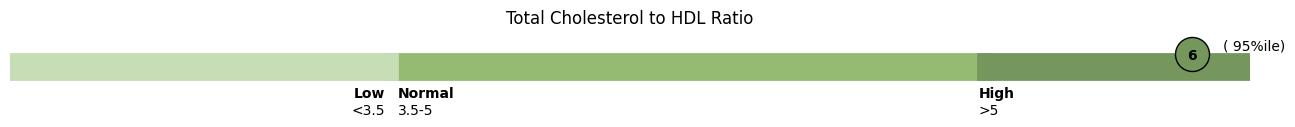
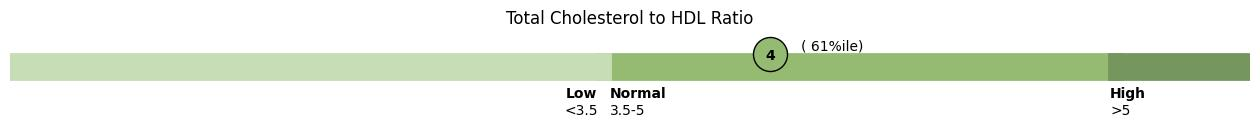
New AHA_Ranges

diff --git a/Home.py b/Home.py
@@ -21,7 +21,7 @@ DATA_DIR = DIR + '/data/'
 OUTPUT_DIR = DIR + '/output/'
 SAHC_DATA_DIR = DIR + '/sahc_data/'
 
-image_path = os.path.join(LOGO_DIR, 'sahc colors.svg')
+image_path = os.path.join(LOGO_DIR, 'CORE caps.svg')
 
 def create_download_link(val, filename):
     b64 = base64.b64encode(val)  # val looks like b'...'
@@ -86,7 +86,7 @@ st.markdown(
         z-index: 999;
     }
     .fixed-header {
-        border-bottom: 1px solid grey;
+        border-bottom: 1px solid lightgrey;
     }
 </style>
     """,
@@ -107,11 +107,13 @@ GLU_FILE = os.path.join(DATA_DIR, 'P_GLU.XPT')
 GHB_FILE = os.path.join(DATA_DIR, 'P_GHB.XPT')
 BPX_FILE = os.path.join(DATA_DIR, 'P_BPXO.XPT')
 CBC_FILE = os.path.join(DATA_DIR, 'P_CBC.XPT')
-SAHC_FILE = os.path.join(SAHC_DATA_DIR, 'tblCleanedConcatNoPID.csv')
+BMX_FILE = os.path.join(DATA_DIR, 'P_BMX.XPT')
+# SAHC_FILE = os.path.join(SAHC_DATA_DIR, 'tblCleanedConcatNoPID.csv')
+SAHC_FILE = os.path.join(SAHC_DATA_DIR, 'merged_data_noPID.csv')
 
 UNITS_MAP = {
-    'LBDHDD': "mg/dL", 'LBDLDL': "mg/dL", 'LBXTC': "mg/dL", 'LBXTR': "mg/dL", 'DIQ280': "%",
-    'LBXGLU': "mg/dL", 'BPXOSY1': "mmHg", 'BPXODI1': "mmHg", 'LBXHGB': "g/dL", 'TotHDLRat': ""
+    'LBDHDD': "mg/dL", 'LBDLDL': "mg/dL", 'LBXTC': "mg/dL", 'LBXTR': "mg/dL", 'LBXGH': "%",
+    'LBXGLU': "mg/dL", 'BPXOSY1': "mmHg", 'BPXODI1': "mmHg", 'LBXHGB': "g/dL", 'TotHDLRat': "", 'BMXBMI': "kg/m\u00b2"
 }
 
 
@@ -119,21 +121,34 @@ NAME_MAP = {
     'LBXTR': 'Triglycerides', 'LBDHDD': 'HDL', 'LBDLDL': 'LDL',
     'LBXTC': 'Total Cholesterol', 'LBXGLU': 'Fasting Glucose',
     'BPXOSY1': 'Systolic Blood Pressure', 'BPXODI1': 'Diastolic Blood Pressure', 
-    'TotHDLRat': 'Total Cholesterol to HDL Ratio', 'LBXHGB': 'Hemoglobin', 'DIQ280': 'A1C'
+    'TotHDLRat': 'Total Cholesterol to HDL Ratio', 'LBXHGB': 'Hemoglobin', 'LBXGH': 'Hemoglobin A1C', 
+    'BMXBMI': 'Body Mass Index'
 }
 
-# Uniform AHA ranges regardless of gender and age
 AHA_RANGES = {
-    'Triglycerides (mg/dL)': (None, 150, None),
-    'HDL (mg/dL)': (40, 60, None),
-    'LDL (mg/dL)': (None, 100, None),
-    'Total Cholesterol (mg/dL)': (140, 160, None),
-    'Fasting Glucose (mg/dL)': (None, 100, None),
-    'Systolic Blood Pressure (mmHg)': (None, 120, None),
-    'Diastolic Blood Pressure (mmHg)': (None, 80, None),
-    'Total Cholesterol to HDL Ratio': (3.5, 5, None),
-    'Hemoglobin (g/dL)': (13.5, 18, None),
-    'A1C (%)': (None, 5.7, None)
+    'Triglycerides (mg/dL)': (None, 150),
+    'HDL (mg/dL)': (40, 60),
+    'LDL (mg/dL)': (None, 100),
+    'Total Cholesterol (mg/dL)': (140, 160),
+    'Fasting Glucose (mg/dL)': (None, 100),
+    'Systolic Blood Pressure (mmHg)': (None, 120),
+    'Diastolic Blood Pressure (mmHg)': (None, 80),
+    'Total Cholesterol to HDL Ratio': (3.5, 5),
+    'Hemoglobin A1C (%)': (None, 5.7),
+    'Body Mass Index (kg/m\u00b2)': (None, 25)
+}
+
+AHA_RANGES = {
+    'Triglycerides (mg/dL)': ("Normal", 150, "Borderline", 200, "High"),
+    'HDL (mg/dL)': ("Low", 40, "Normal", 60, "High"),
+    'LDL (mg/dL)': ("Optimal", 100, "", 160, "High"),
+    'Total Cholesterol (mg/dL)': ("Optimal", 150, "", 200, "High"),
+    'Fasting Glucose (mg/dL)': ("Normal", 100, "Borderline", 125, "High"),
+    'Systolic Blood Pressure (mmHg)': ("Normal", 120, "High", None, None, None),
+    'Diastolic Blood Pressure (mmHg)': ("Normal", 80, "High", None, None, None),
+    'Total Cholesterol to HDL Ratio': ("Low", 3.5, "Normal", 5, "High"),
+    'Hemoglobin A1C (%)': ("Normal", 5.7, "Borderline", 6.4, "High"),
+    'Body Mass Index (kg/m\u00b2)': ("Low", 18.5, "Normal", 25, "High")
 }
 
 def map_age_to_group(age):
@@ -180,12 +195,7 @@ with aboutMe_expand:
     with col3:
         ethnicity = st.selectbox('Ethnicity', ['Other', 'South Asian'])
     with col4:
-        global dis
-        if ethnicity == 'South Asian':
-            dis = True
-        else:
-            dis = False
-        medications_select = st.multiselect(label="Select your medication use", options=['Cholesterol', 'Diabetes', 'Blood Pressure'], disabled=dis)
+        medications_select = st.multiselect(label="Select your medication use", options=['Cholesterol', 'Diabetes', 'Blood Pressure'])
 
         medChol = 'No'
         medDiab = 'No'
@@ -213,17 +223,18 @@ def load_files(debugging):
         df_glu = pd.read_sas(GLU_FILE, format='xport')
         df_ghb = pd.read_sas(GHB_FILE, format='xport')
         df_bpx = pd.read_sas(BPX_FILE, format='xport')
-        df_cbc = pd.read_sas(CBC_FILE, format='xport')
+        df_bmx = pd.read_sas(BMX_FILE, format='xport')
 
         df_combined = df_user[['SEQN', 'RIAGENDR', 'RIDAGEYR', 'RIDRETH3']]
-        df_combined = pd.merge(df_combined, df_diq[['SEQN', 'DIQ010', 'DIQ160', 'DIQ050', 'DIQ070', 'DIQ280']], on='SEQN', how='left')
+        df_combined = pd.merge(df_combined, df_diq[['SEQN', 'DIQ010', 'DIQ160', 'DIQ050', 'DIQ070']], on='SEQN', how='left')
         df_combined = pd.merge(df_combined, df_bpq[['SEQN', 'BPQ090D', 'BPQ100D', 'BPQ040A', 'BPQ050A', 'BPQ020']], on='SEQN', how='left')
         df_combined = pd.merge(df_combined, df_hdl[['SEQN', 'LBDHDD']], on='SEQN', how='left')
         df_combined = pd.merge(df_combined, df_tgl[['SEQN', 'LBXTR', 'LBDLDL']], on='SEQN', how='left')
         df_combined = pd.merge(df_combined, df_tch[['SEQN', 'LBXTC']], on='SEQN', how='left')
         df_combined = pd.merge(df_combined, df_glu[['SEQN', 'LBXGLU']], on='SEQN', how='left')
+        df_combined = pd.merge(df_combined, df_ghb[['SEQN', 'LBXGH']], on='SEQN', how='left')
         df_combined = pd.merge(df_combined, df_bpx[['SEQN', 'BPXOSY1', 'BPXODI1', 'BPXOPLS1', 'BPXOSY2', 'BPXODI2', 'BPXOPLS2', 'BPXOSY3', 'BPXODI3', 'BPXOPLS3']], on='SEQN', how='left')
-        df_combined = pd.merge(df_combined, df_cbc[['SEQN', 'LBXHGB']], on='SEQN', how='left')
+        df_combined = pd.merge(df_combined, df_bmx[['SEQN', 'BMXBMI']], on='SEQN', how='left')
 
         # df_combined['Age_Group'] = df_combined['RIDAGEYR'].apply(lambda age: 20 * int(age / 20))
         df_combined['Age_Group'] = df_combined['RIDAGEYR'].apply(map_age_to_group)
@@ -251,14 +262,16 @@ def load_files(debugging):
             'gender': 'RIAGENDR',
             'race': 'RIDRETH3',
             'age': 'RIDAGEYR',
-            'heartRate': 'BPXOPLS1',
             'bpSyst': 'BPXOSY1',
             'bpDiast': 'BPXODI1',
             'cholTot': 'LBXTC',
             'cholLDL': 'LBDLDL',
             'cholHDL': 'LBDHDD',
             'cholTrig': 'LBXTR',
+            'Total:HDL': 'TotHDLRat',
             'bloodSugar': 'LBXGLU',
+            'hg1ac': 'LBXGH',
+            'bmi': 'BMXBMI'
         })
 
         df_combined['Age_Group'] = df_combined['RIDAGEYR'].apply(map_age_to_group)
@@ -298,20 +311,26 @@ def ui_choose(df, debugging):
     df2 = df2[df2['RIAGENDR'].isin(genderFilter)]
     df2 = df2[df2['Age_Group'].isin(ageFilter)]
 
-    if dis == False:
-        if medChol == 'Yes':
-            df2 = df2[df2['BPQ100D'].isin(medCholFilter)]
-        elif medChol == 'No':
-            df2 = df2[df2['BPQ090D'].isin(medCholFilter) | df2['BPQ100D'].isin(medCholFilter)]
-        
+    if ethnicity == 'South Asian':
+        df2 = df2[df2['cholMeds'].isin(medCholFilter)]
+    elif medChol == 'Yes':
+        df2 = df2[df2['BPQ100D'].isin(medCholFilter)]
+    elif medChol == 'No':
+        df2 = df2[df2['BPQ090D'].isin(medCholFilter) | df2['BPQ100D'].isin(medCholFilter)]
+    
+    if ethnicity == 'South Asian':
+        df2 = df2[df2['diabMeds'].isin(medDiabFilter)]
+    else:
         df2 = df2[df2['DIQ070'].isin(medDiabFilter)]
 
-        if medBP == 'Yes':
-            df2 = df2[df2['BPQ040A'].isin(medBPFilter)]
-        elif medBP == 'No':
-            df2 = df2[df2['BPQ020'].isin(medBPFilter) | df2['BPQ040A'].isin(medBPFilter)]
+    if ethnicity == 'South Asian':
+        df2 = df2[df2['bpMeds'].isin(medBPFilter)]
+    elif medBP == 'Yes':
+        df2 = df2[df2['BPQ040A'].isin(medBPFilter)]
+    elif medBP == 'No':
+        df2 = df2[df2['BPQ020'].isin(medBPFilter) | df2['BPQ040A'].isin(medBPFilter)]
 
-        # st.write(f"{len(df2)} records found.")
+    # st.write(f"{len(df2)} records found.")
 
     if len(df2) < 15:
         next_age_group = get_next_age_group(age_group)
@@ -319,19 +338,24 @@ def ui_choose(df, debugging):
         df2 = df[df['RIAGENDR'].isin(genderFilter)]
         df2 = df2[df2['Age_Group'].isin(ageFilter)]
 
-        if dis == False:
-
-            if medChol == 'Yes':
-                df2 = df2[df2['BPQ100D'].isin(medCholFilter)]
-            elif medChol == 'No':
-                df2 = df2[df2['BPQ090D'].isin(medCholFilter) | df2['BPQ100D'].isin(medCholFilter)]
-            
+        if ethnicity == 'South Asian':
+            df2 = df2[df2['cholMeds'].isin(medCholFilter)]
+        elif medChol == 'Yes':
+            df2 = df2[df2['BPQ100D'].isin(medCholFilter)]
+        elif medChol == 'No':
+            df2 = df2[df2['BPQ090D'].isin(medCholFilter) | df2['BPQ100D'].isin(medCholFilter)]
+        
+        if ethnicity == 'South Asian':
+            df2 = df2[df2['diabMeds'].isin(medDiabFilter)]
+        else:
             df2 = df2[df2['DIQ070'].isin(medDiabFilter)]
 
-            if medBP == 'Yes':
-                df2 = df2[df2['BPQ040A'].isin(medBPFilter)]
-            elif medBP == 'No':
-                df2 = df2[df2['BPQ020'].isin(medBPFilter) | df2['BPQ040A'].isin(medBPFilter)]
+        if ethnicity == 'South Asian':
+            df2 = df2[df2['bpMeds'].isin(medBPFilter)]
+        elif medBP == 'Yes':
+            df2 = df2[df2['BPQ040A'].isin(medBPFilter)]
+        elif medBP == 'No':
+            df2 = df2[df2['BPQ020'].isin(medBPFilter) | df2['BPQ040A'].isin(medBPFilter)]
 
         # st.write(f"{len(df2)} records found after expanding age group.")
 
@@ -361,6 +385,8 @@ def popup(acro, column, user_input, user_percentile, gender, age_range, med, on_
     df = pd.DataFrame(data)
     st.dataframe(df, hide_index=True)
 
+    st.write("Based on the AHA guidlelines, the optimal value for HDL >= 40 for males. “>= 45 for females")
+
 def show_analysis(df):
     st.markdown(f"### <u>My risk profile markers</u>", unsafe_allow_html=True)
     
@@ -378,14 +404,14 @@ def show_analysis(df):
         'LBXGLU': "Value should be between 50-150",
         'BPXOSY1': "Value should be between 90-200",
         'BPXODI1': "Value should be between 60-130",
-        'LBXHGB': "Value should be between 5-30",
         'TotHDLRat': "Value should be between 0.5-10",
-        'DIQ280': "Value should be between 1 and 20",
+        'LBXGH': "Value should be between 1 and 20",
+        'BMXBMI': "Value should be between 10 and 50"
     }
 
     user_inputs = {}
 
-    for i, column in enumerate(['LBXTC', 'LBDLDL', 'LBDHDD', 'LBXTR', 'TotHDLRat', 'LBXGLU', 'LBXHGB', 'DIQ280', 'BPXOSY1', 'BPXODI1']):
+    for i, column in enumerate(['LBXTC', 'LBDLDL', 'LBDHDD', 'LBXTR', 'TotHDLRat', 'LBXGLU', 'LBXGH', 'BMXBMI', 'BPXOSY1', 'BPXODI1']):
 
         with cols[i].container():
 
@@ -457,35 +483,26 @@ def show_analysis(df):
                 # st.write(f"####")
 
                 if columnName in AHA_RANGES:
-                    low_number = AHA_RANGES[columnName][0]
-                    high_number = AHA_RANGES[columnName][1]
+                    low_number = AHA_RANGES[columnName][1]
+                    high_number = AHA_RANGES[columnName][3]
                 else:
                     st.write(f"No AHA prescribed range available for {columnName}.")
                     continue
+                if columnName == 'HDL (mg/dL)' and gender == 'Female':
+                    low_number = 50
 
                 sorted_array = np.sort(array)
 
                 # Calculate the percentile
                 if high_number == None:
                     high_number = 1000
-                    high_percentile = 101
+                    high_percentile = 99
                 else:
                     high_percentile = np.mean(sorted_array <= high_number) * 100
-                if low_number == None:
-                    low_number = 0
-                    low_percentile = 0
-                else:
-                    low_percentile = np.mean(sorted_array <= low_number) * 100
+
+                low_percentile = np.mean(sorted_array <= low_number) * 100
 
                 fig, ax = plt.subplots(figsize=(16, 1))
-
-                # lines from low_percentile to high_percentile
-                ax.plot([low_percentile, high_percentile], [0.775, 0.775], color=regugreen, lw=20, label='Healthy Range')
-
-                if high_percentile < 100:
-                    ax.plot([high_percentile + 1, 100], [0.775, 0.775], color=darkgreen, lw=20, label='High')
-                if low_percentile > 0:
-                    ax.plot([0, low_percentile - 1], [0.775, 0.775], color=lightgreen, lw=20, label="Low")
 
                 # dot at user input position
                 user_percentile = np.mean(sorted_array <= user_input) * 100
@@ -497,12 +514,33 @@ def show_analysis(df):
                     placeholder.markdown(f"#### <span style='color:{header_color};'>{header}</span>", unsafe_allow_html=True)
                 # else:
 
-                if user_percentile < low_percentile:
-                    ax.scatter(user_percentile, 0.9, color=lightgreen, zorder=5, label='Your Input', s=600, edgecolors=['black'])
-                elif user_percentile > high_percentile:
-                    ax.scatter(user_percentile, 0.9, color=darkgreen, zorder=5, label='Your Input', s=600, edgecolors=['black'])
+                if AHA_RANGES[columnName][0] == 'Optimal':
+                    ax.plot([high_percentile + 1, 100], [0.775, 0.775], color=darkgreen, lw=20, label='High')
+                    ax.plot([0, low_percentile - 1], [0.775, 0.775], color=regugreen, lw=20, label="Low")
+                    ax.plot([low_percentile, high_percentile], [0.775, 0.775], color=lightgreen, lw=20, label='Healthy Range')
+
+                    if user_percentile < low_percentile:
+                        ax.scatter(user_percentile, 0.9, color=regugreen, zorder=5, label='Your Input', s=600, edgecolors=['black'])
+                    elif user_percentile > high_percentile:
+                        ax.scatter(user_percentile, 0.9, color=darkgreen, zorder=5, label='Your Input', s=600, edgecolors=['black'])
+                    else:
+                        ax.scatter(user_percentile, 0.9, color=lightgreen, zorder=5, label='Your Input', s=600, edgecolors=['black'])
+
                 else:
-                    ax.scatter(user_percentile, 0.9, color=regugreen, zorder=5, label='Your Input', s=600, edgecolors=['black'])
+                    # lines from low_percentile to high_percentile
+                    ax.plot([low_percentile, high_percentile], [0.775, 0.775], color=regugreen, lw=20, label='Healthy Range')
+
+                    if high_percentile < 100:
+                        ax.plot([high_percentile + 1, 100], [0.775, 0.775], color=darkgreen, lw=20, label='High')
+                    if low_percentile > 0:
+                        ax.plot([0, low_percentile - 1], [0.775, 0.775], color=lightgreen, lw=20, label="Low")
+
+                    if user_percentile < low_percentile:
+                        ax.scatter(user_percentile, 0.9, color=lightgreen, zorder=5, label='Your Input', s=600, edgecolors=['black'])
+                    elif user_percentile > high_percentile:
+                        ax.scatter(user_percentile, 0.9, color=darkgreen, zorder=5, label='Your Input', s=600, edgecolors=['black'])
+                    else:
+                        ax.scatter(user_percentile, 0.9, color=regugreen, zorder=5, label='Your Input', s=600, edgecolors=['black'])
 
                 ax.set_xlim(0, 100)
                 ax.set_ylim(0.4, 1.1)
@@ -527,16 +565,16 @@ def show_analysis(df):
                              horizontalalignment='center')
 
                 if high_number < 1000:
-                    plt.annotate('High', xy=(high_percentile, 0.675), xytext=(high_percentile, 0.5),
+                    plt.annotate(f'{AHA_RANGES[columnName][4]}', xy=(high_percentile, 0.675), xytext=(high_percentile, 0.5),
                                   horizontalalignment='left', weight='bold')
                     plt.annotate(f'>{high_number}', xy=(high_percentile, 0.675), xytext=(high_percentile, 0.35),
                                   horizontalalignment='left')
                 if low_number > 0:
-                    plt.annotate('Low', xy=(low_percentile - 1, 0.675), xytext=(low_percentile - 1, 0.5),
+                    plt.annotate(f'{AHA_RANGES[columnName][0]}', xy=(low_percentile - 1, 0.675), xytext=(low_percentile - 1, 0.5),
                                   horizontalalignment='right', weight='bold')
                     plt.annotate(f'<{low_number}', xy=(low_percentile - 1, 0.657), xytext=(low_percentile - 1, 0.35),
                                   horizontalalignment='right')
-                plt.annotate('Normal', xy=(low_percentile, 0.675), xytext=(low_percentile, 0.5),
+                plt.annotate(f'{AHA_RANGES[columnName][2]}', xy=(low_percentile, 0.675), xytext=(low_percentile, 0.5),
                                   horizontalalignment='left', weight='bold')
                 plt.annotate(f'{low_number}-{high_number}', xy=(low_percentile, 0.675), xytext=(low_percentile, 0.35),
                                   horizontalalignment='left')
